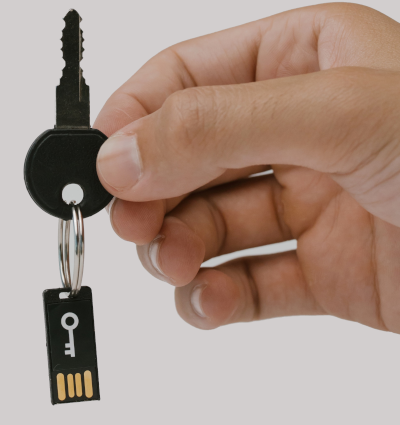
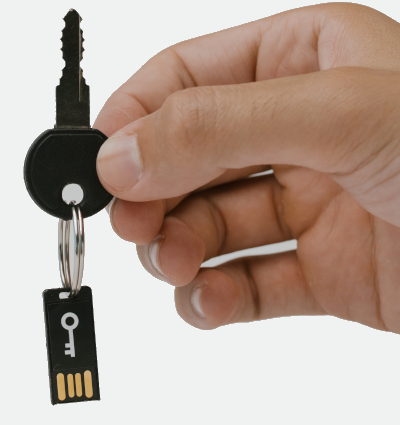
Add Login

diff --git a/frontend/src/pages/Admin/Auth/Login/index.tsx b/frontend/src/pages/Admin/Auth/Login/index.tsx
@@ -1,0 +1,44 @@
+import { Link } from 'react-router-dom';
+import ButtonIcon from 'components/ButtonIcon';
+ 
+import './styles.css';
+ 
+const Login = () => {
+  return (
+    <div className="base-card login-card">
+      <h1>LOGIN</h1>
+      <form>
+        <div className="mb-4">
+          <input
+            type="text"
+            className="form-control base-input"
+            placeholder="Email"
+            name="username"
+          />
+        </div>
+        <div className="mb-2">
+          <input
+            type="password"
+            className="form-control base-input"
+            placeholder="Password"
+            name="password"
+          />
+        </div>
+        <Link to="/admin/auth/recuperar" className="login-link-recover">
+          Esqueci a senha
+        </Link>
+        <div className="login-submit">
+          <ButtonIcon text="Fazer login" />
+        </div>
+        <div className="signup-container">
+          <span className="not-registered">Não tem Cadastro?</span>
+          <Link to="/admin/auth/cadastro" className="login-link-register">
+            CADASTRAR
+          </Link>
+        </div>
+      </form>
+    </div>
+  );
+};
+ 
+export default Login;

diff --git a/frontend/src/pages/Admin/Auth/Login/styles.css b/frontend/src/pages/Admin/Auth/Login/styles.css
@@ -1,0 +1,54 @@
+.login-card {
+    padding: 20px;
+    font-size: 16px;
+}
+
+.login-card h1 {
+    font-weight: normal;
+    font-size: 2em;
+    text-align: center;
+    letter-spacing: -0.015em;
+    color: #263238;
+    margin: 20px 0 40px 0;
+}
+
+.login-link-recover {
+    font-size: 1em;
+    letter-spacing: -0.015em;
+    color: rgb(138, 129, 11);
+    display: block;
+    margin-bottom: 40px;
+  }
+ 
+  .login-link-register {
+    font-weight: bold;
+    font-size: 1em;
+    text-align: center;
+    letter-spacing: -0.015em;
+    text-decoration-line: underline;
+    color: rgb(138, 129, 11);
+    margin-left: 10px;
+  }
+   
+  .login-submit {
+    margin-bottom: 10px;
+  }
+   
+  .not-registered {
+    font-weight: bold;
+    font-size: 0.7em;
+    text-align: center;
+    letter-spacing: -0.015em;
+    color: #9e9e9e;
+  }
+   
+  .signup-container {
+    text-align: center;
+    margin-bottom: 30px;
+  }
+
+  a, a:hover {
+    text-decoration: none;
+    color: unset;
+  }
+  

diff --git a/frontend/src/pages/Admin/Auth/styles.css b/frontend/src/pages/Admin/Auth/styles.css
@@ -1,7 +1,9 @@
 .auth-container {
     display: flex;
     justify-content: space-around;
-    padding: 20px;
+    padding: 20px 20px;
+    background: url(~assets/images/main-image.jpg) repeat;
+    height: 100%;
 }
 
 .auth-banner-container {
@@ -10,6 +12,7 @@
 
 .auth-form-container {
     width: 100%;
+    padding: 15px;
 }
 
 @media (min-width: 576px) {
@@ -25,11 +28,36 @@
     }
 }
 
+@media (min-width: 992px) {
+
+    .auth-form-container {
+        width: 600px;
+    }
+}
+
 @media (min-width: 1200px) {
 
     .auth-banner-container {
         display: flex;
         flex-direction: column;
+        
+        justify-content: center;
+    }
+
+    .auth-banner-container h1 {
+        text-align: center;
+        font-size: 55px;
+    }
+
+    .auth-banner-container p {
+        text-align: center;
+        font-size: 16px;
+        color: #b4adad;
+        margin-bottom: 30px;
+    }
+
+    .auth-banner-container img {
+        border-radius: 50%;
     }
     
    

diff --git a/frontend/src/components/ButtonIcon/styles.css b/frontend/src/components/ButtonIcon/styles.css
@@ -1,0 +1,40 @@
+.btn-container {
+   display: flex;
+}
+
+.btn-text-area {
+   width: 200px;
+   height: 70px;
+}
+
+.btn-text {
+   border-radius: 10px 0px 0px 10px;
+   background-color: #24231f;
+   border: #24231f;
+   text-transform: uppercase;
+   width: 100%;
+   height: 70px;
+}
+
+.btn-arrow {
+   background-color: rgb(138, 129, 11);
+   border-radius: 0px 10px 10px 0px;
+   width: 50px;
+   display: flex;
+   align-items: center;
+   justify-content: center;
+}
+
+@media (min-width: 576px) {
+
+   .btn-text-area {
+      width: 100%;
+   }
+}
+
+@media (min-width: 768px) {
+
+   .btn-container {
+      padding: 0 30px;
+   }
+}

diff --git a/frontend/src/pages/Admin/Auth/index.tsx b/frontend/src/pages/Admin/Auth/index.tsx
@@ -1,5 +1,6 @@
 import AuthImg from 'assets/images/auth-image.png';
 import { Route, Switch } from 'react-router-dom';
+import Login from './Login';
 
 import './styles.css';
 
@@ -15,7 +16,7 @@ const Auth = () => {
       <div className="auth-form-container base-card">
         <Switch>
           <Route path="/admin/auth/login">
-            <h1>Card de Login</h1>
+            <Login />
           </Route>
           <Route path="/admin/auth/cadastro">
             <h1>Card de Cadastro</h1>

diff --git a/frontend/src/components/ButtonIcon/index.tsx b/frontend/src/components/ButtonIcon/index.tsx
@@ -1,0 +1,22 @@
+import React from 'react';
+import { ReactComponent as ArrowIcon } from 'assets/images/arrow.svg';
+import './styles.css';
+
+type Props = {
+  text: string;
+};
+
+const ButtonIcon = ({ text }: Props) => (
+  <div className="btn-container">
+    <div className="btn-text-area">
+      <button className="btn-text">
+          <h6>{text}</h6>
+      </button>
+    </div>
+    <div className="btn-arrow">
+    <ArrowIcon />
+    </div>
+  </div>
+);
+
+export default ButtonIcon;

diff --git a/frontend/src/App.css b/frontend/src/App.css
@@ -19,3 +19,15 @@ a, a:hover {
   box-shadow: 0px 4px 20px rgba(0, 0, 0, 0.25);
   border-radius: 10px;
 }
+
+.base-input {
+  border-radius: 10px;
+  font-size: 1em;
+  letter-spacing: -0.015em;
+  color: #263238;
+  height: 50px;
+}
+
+.base-input::placeholder {
+  color: #9e9e9e;
+}
